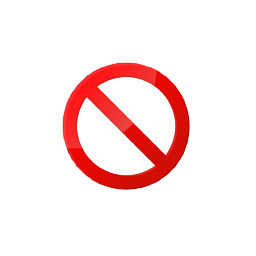
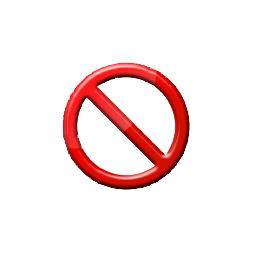
차선변경Block아이콘변경 및 깜박이 켜고 0.2초 기다림~

Changed region(s): [[0.2188, 0.2188, 0.75, 0.75]]

diff --git a/selfdrive/controls/lib/desire_helper.py b/selfdrive/controls/lib/desire_helper.py
@@ -23,13 +23,13 @@ DESIRES = {
     LaneChangeState.off: log.LateralPlan.Desire.none,
     LaneChangeState.preLaneChange: log.LateralPlan.Desire.none,
     LaneChangeState.laneChangeStarting: log.LateralPlan.Desire.laneChangeLeft,
-    LaneChangeState.laneChangeFinishing: log.LateralPlan.Desire.laneChangeLeft,
+    LaneChangeState.laneChangeFinishing: log.LateralPlan.Desire.none,
   },
   LaneChangeDirection.right: {
     LaneChangeState.off: log.LateralPlan.Desire.none,
     LaneChangeState.preLaneChange: log.LateralPlan.Desire.none,
     LaneChangeState.laneChangeStarting: log.LateralPlan.Desire.laneChangeRight,
-    LaneChangeState.laneChangeFinishing: log.LateralPlan.Desire.laneChangeRight,
+    LaneChangeState.laneChangeFinishing: log.LateralPlan.Desire.none,
   },
 }
 DESIRES_TURN = {
@@ -118,7 +118,7 @@ class DesireHelper:
       #self.lane_change_direction = LaneChangeDirection.none
       self.desireEvent = 0
     else:      
-      # 1. 감지 및 결정 단계: LaneChangeState.off: 깜박이와 속도검사. 
+      # 0. 감지 및 결정 단계: LaneChangeState.off: 깜박이와 속도검사. 
       #   - 정지상태: 깜박이를 켜고 있음: 출발할때 검사해야함.
       #   - 저속: 차선변경속도이하: 턴할지, 차로변경할지 결정해야함.
       #   - 중속: 80키로이하: 
@@ -150,15 +150,25 @@ class DesireHelper:
 
           # 중속
           elif v_ego_kph < 80.0:
-            if carstate.brakePressed:  # 감속하면서 깜박이.... 경우에따라 턴을 할까??(HW)
+            # 브레이킹하면서 깜박이.... 좌: 좌회전확률이 높음(차로변경차선변경 또는 좌회전). , 우: 우회전확률이 높으나(우측차로변경차선 또는 우회전), 
+            # 하지만... 차로변경차선이 있는지 없는지는 알수 없음... 
+            # 따라서, 브레이크밟으면서 깜박이는 턴속도가 될때까지, 차선변경 턴은 하지 않도록 하자~
+            if carstate.brakePressed:  
+              #로드에지가 아닌경우
               if not road_edge_detected:
                 if steering_pressed and checkAutoTurnEnabled:
-                  self.turnControlState = True
-                self.lane_change_state = LaneChangeState.preLaneChange
+                  self.turnControlState = True                
+                  self.lane_change_state = LaneChangeState.preLaneChange
+                elif carstate.rightBlinker:
+                  self.lane_change_state = LaneChangeState.preLaneChange
+                elif carstate.leftBlinker and steering_pressed:
+                  self.lane_change_state = LaneChangeState.preLaneChange
+              #우, 로드에지
               elif carstate.rightBlinker:
                 if checkAutoTurnEnabled and (checkAutoTurnSpeed or steering_pressed):
                   self.turnControlState = True
                 self.lane_change_state = LaneChangeState.preLaneChange
+              #좌, 로드에지
               else:
                 if checkAutoTurnEnabled and (checkAutoTurnSpeed or steering_pressed):
                   self.turnControlState = True
@@ -173,7 +183,7 @@ class DesireHelper:
               self.lane_change_ll_prob = 1.0
               self.waitTorqueApplied = False
 
-      # 2. 대기단계: LaneChangeState.preLaneChange: 
+      # 1. 대기단계: LaneChangeState.preLaneChange: 
       elif self.lane_change_state == LaneChangeState.preLaneChange:        
         self.desireEvent = 0
         self.lane_change_pulse_timer += DT_MDL
@@ -186,13 +196,13 @@ class DesireHelper:
             self.lane_change_state = LaneChangeState.off
           elif v_ego_kph < 2.0:
             self.lane_change_pulse_timer = 0.0
-          elif self.lane_change_pulse_timer > 0.1: # and not blindspot_detected:
+          elif self.lane_change_pulse_timer > 0.2: # and not blindspot_detected:
             self.lane_change_state = LaneChangeState.laneChangeStarting
         else:
           # 깜박이가 꺼지거나, 속도가 줄어들면... 차선변경 중지.
           if not one_blinker: #속도가 줄어도 차선변경이 가능하게 함(시험), or v_ego_kph < self.autoLaneChangeSpeed:  
             self.lane_change_state = LaneChangeState.off
-          elif self.lane_change_pulse_timer > 0.1:
+          elif self.lane_change_pulse_timer > 0.2:
             if blindspot_detected:
               self.desireEvent = EventName.laneChangeBlocked
               self.waitTorqueApplied = True
@@ -208,7 +218,7 @@ class DesireHelper:
             elif self.desireEvent == 0:
               self.desireEvent = EventName.preLaneChangeLeft if self.lane_change_direction == LaneChangeDirection.left else EventName.preLaneChangeRight
 
-      # LaneChangeState.laneChangeStarting
+      # 2. LaneChangeState.laneChangeStarting
       elif self.lane_change_state == LaneChangeState.laneChangeStarting:
         self.desireEvent = EventName.laneChange
         # fade out over .5s
@@ -236,7 +246,7 @@ class DesireHelper:
             if lane_change_prob < 0.02 and self.lane_change_ll_prob < 0.01:
               self.lane_change_state = LaneChangeState.laneChangeFinishing
 
-      # LaneChangeState.laneChangeFinishing
+      # 3.LaneChangeState.laneChangeFinishing
       elif self.lane_change_state == LaneChangeState.laneChangeFinishing:
         self.desireEvent = EventName.laneChange
         # fade in laneline over 1s

diff --git a/selfdrive/ui/qt/onroad.cc b/selfdrive/ui/qt/onroad.cc
@@ -369,6 +369,7 @@ AnnotatedCameraWidget::AnnotatedCameraWidget(VisionStreamType type, QWidget* par
   ic_lane_change_l = QPixmap("../assets/images/lane_change_l.png");
   ic_lane_change_r = QPixmap("../assets/images/lane_change_r.png");
   ic_lane_change_inhibit = QPixmap("../assets/images/lane_change_inhibit.png");
+  ic_lane_change_inhibit = QPixmap("../assets/images/lane_change_steer.png");
   ic_turn_l = QPixmap("../assets/images/turn_l.png");
   ic_turn_r = QPixmap("../assets/images/turn_r.png");
   ic_blinker_l = QPixmap("../assets/images/blink_l.png");
@@ -1777,21 +1778,21 @@ void AnnotatedCameraWidget::drawLeadApilot(QPainter& painter, const cereal::Mode
             else if (desireStateLaneChangeLeft > 0.5) painter.drawPixmap(x - icon_size / 2, y - icon_size / 2, icon_size, icon_size, ic_lane_change_l);
             else if (desireStateLaneChangeRight > 0.5) painter.drawPixmap(x - icon_size / 2, y - icon_size / 2, icon_size, icon_size, ic_lane_change_r);
             if (desireEvent == 57) {
+                painter.drawPixmap(x - icon_size / 2, y - icon_size / 2, icon_size, icon_size, ic_lane_change_steer);
                 painter.drawPixmap(x - icon_size / 2, y - icon_size / 2, icon_size, icon_size, ic_lane_change_l);
-                painter.drawPixmap(x - icon_size / 2, y - icon_size / 2, icon_size, icon_size, ic_lane_change_inhibit);
             }
             else if (desireEvent == 58) {
+                painter.drawPixmap(x - icon_size / 2, y - icon_size / 2, icon_size, icon_size, ic_lane_change_steer);
                 painter.drawPixmap(x - icon_size / 2, y - icon_size / 2, icon_size, icon_size, ic_lane_change_r);
-                painter.drawPixmap(x - icon_size / 2, y - icon_size / 2, icon_size, icon_size, ic_lane_change_inhibit);
             }
             else if (desireEvent == 71) {
                 if (laneChangeDirection == cereal::LateralPlan::LaneChangeDirection::LEFT) {
-                    painter.drawPixmap(x - icon_size / 2, y - icon_size / 2, icon_size, icon_size, ic_lane_change_l);
                     painter.drawPixmap(x - icon_size / 2, y - icon_size / 2, icon_size, icon_size, ic_lane_change_inhibit);
+                    painter.drawPixmap(x - icon_size / 2, y - icon_size / 2, icon_size, icon_size, ic_lane_change_l);
                 }
                 else if (laneChangeDirection == cereal::LateralPlan::LaneChangeDirection::RIGHT) {
-                    painter.drawPixmap(x - icon_size / 2, y - icon_size / 2, icon_size, icon_size, ic_lane_change_r);
                     painter.drawPixmap(x - icon_size / 2, y - icon_size / 2, icon_size, icon_size, ic_lane_change_inhibit);
+                    painter.drawPixmap(x - icon_size / 2, y - icon_size / 2, icon_size, icon_size, ic_lane_change_r);
                 }
             }
 

diff --git a/selfdrive/controls/lib/lateral_planner.py b/selfdrive/controls/lib/lateral_planner.py
@@ -39,7 +39,6 @@ class LateralPlanner:
     self.lateralMotionCost = float(int(Params().get("LateralMotionCost", encoding="utf8")))*0.01
     self.lateralAccelCost = float(int(Params().get("LateralAccelCost", encoding="utf8")))*0.01
     self.lateralJerkCost = float(int(Params().get("LateralJerkCost", encoding="utf8")))*0.01
-    self.lateralTestMode = int(Params().get("LateralTestMode", encoding="utf8"))
     self.useLaneLineSpeed = float(int(Params().get("UseLaneLineSpeed", encoding="utf8")))
 
     self.useLaneLineMode = False
@@ -79,7 +78,6 @@ class LateralPlanner:
       self.lateralMotionCost = float(int(Params().get("LateralMotionCost", encoding="utf8")))*0.01
       self.lateralAccelCost = float(int(Params().get("LateralAccelCost", encoding="utf8")))*0.01
       self.lateralJerkCost = float(int(Params().get("LateralJerkCost", encoding="utf8")))*0.01
-      self.lateralTestMode = int(Params().get("LateralTestMode", encoding="utf8"))
 
     # clip speed , lateral planning is not possible at 0 speed
     measured_curvature = sm['controlsState'].curvature
@@ -152,15 +150,9 @@ class LateralPlanner:
                              self.lateralAccelCost, self.lateralJerkCost,
                              self.steeringRateCost)
 
-    if self.lateralTestMode == 1:
-      d_path_xyz = self.path_xyz
-      y_pts = np.interp(self.v_ego * self.t_idxs[:LAT_MPC_N + 1], np.linalg.norm(d_path_xyz, axis=1), d_path_xyz[:, 1])
-      heading_pts = np.interp(self.v_ego * self.t_idxs[:LAT_MPC_N + 1], np.linalg.norm(self.path_xyz, axis=1), self.plan_yaw)
-      yaw_rate_pts = np.interp(self.v_ego * self.t_idxs[:LAT_MPC_N + 1], np.linalg.norm(self.path_xyz, axis=1), self.plan_yaw_rate)
-    else:
-      y_pts = self.path_xyz[:LAT_MPC_N+1, 1]
-      heading_pts = self.plan_yaw[:LAT_MPC_N+1]
-      yaw_rate_pts = self.plan_yaw_rate[:LAT_MPC_N+1]
+    y_pts = self.path_xyz[:LAT_MPC_N+1, 1]
+    heading_pts = self.plan_yaw[:LAT_MPC_N+1]
+    yaw_rate_pts = self.plan_yaw_rate[:LAT_MPC_N+1]
     self.y_pts = y_pts
 
     assert len(y_pts) == LAT_MPC_N + 1

diff --git a/selfdrive/controls/lib/events.py b/selfdrive/controls/lib/events.py
@@ -514,24 +514,27 @@ EVENTS: Dict[int, Dict[str, Union[Alert, AlertCallbackType]]] = {
     ET.WARNING: Alert(
       "Steer Left to Start Lane Change Once Safe",
       "",
-      AlertStatus.normal, AlertSize.small,
-      Priority.LOW, VisualAlert.none, AudibleAlert.none, .1, alert_rate=0.75),
+      AlertStatus.normal, AlertSize.none,
+      #Priority.LOW, VisualAlert.none, AudibleAlert.none, .1, alert_rate=0.75),
+      Priority.LOW, VisualAlert.none, AudibleAlert.none, .1),
   },
 
   EventName.preLaneChangeRight: {
     ET.WARNING: Alert(
       "Steer Right to Start Lane Change Once Safe",
       "",
-      AlertStatus.normal, AlertSize.small,
-      Priority.LOW, VisualAlert.none, AudibleAlert.none, .1, alert_rate=0.75),
+      AlertStatus.normal, AlertSize.none,
+      #Priority.LOW, VisualAlert.none, AudibleAlert.none, .1, alert_rate=0.75),
+      Priority.LOW, VisualAlert.none, AudibleAlert.none, .1),
   },
 
   EventName.laneChangeBlocked: {
     ET.WARNING: Alert(
       "Car Detected in Blindspot or RoadEdge",
       "",
-      AlertStatus.userPrompt, AlertSize.small,
-      Priority.LOW, VisualAlert.none, AudibleAlert.prompt, .1),
+      AlertStatus.userPrompt, AlertSize.none,
+      #Priority.LOW, VisualAlert.none, AudibleAlert.prompt, .1),
+      Priority.LOW, VisualAlert.none, AudibleAlert.none, .1),
   },
 
   EventName.laneChange: {

diff --git a/selfdrive/ui/qt/offroad/settings.cc b/selfdrive/ui/qt/offroad/settings.cc
@@ -667,7 +667,6 @@ TuningPanel::TuningPanel(QWidget* parent) : QWidget(parent) {
     toggleLayout->addWidget(new CValueControl("LateralAccelCost", "횡컨: LateralAccelCost(0)", "", "../assets/offroad/icon_road.png", 0, 300, 1));
     toggleLayout->addWidget(new CValueControl("LateralMotionCost", "횡컨: LateralMotionCost(11)", "", "../assets/offroad/icon_road.png", 0, 50, 1));
     toggleLayout->addWidget(new CValueControl("LateralJerkCost", "횡컨: LateralJerkCost(4)", "", "../assets/offroad/icon_road.png", 0, 50, 1));
-    toggleLayout->addWidget(new CValueControl("LateralTestMode", "횡컨: LateralTestMode(0)", "", "../assets/offroad/icon_road.png", 0, 1, 1));
     toggleLayout->addWidget(new CValueControl("SteerActuatorDelay", "횡컨:SteerActuatorDelay(30)", "표준", "../assets/offroad/icon_road.png", 0, 100, 1));
     toggleLayout->addWidget(new CValueControl("SteerActuatorDelayMid", "횡컨:SteerActuatorDelayMid(30)", "50km/h", "../assets/offroad/icon_road.png", 0, 200, 1));
     toggleLayout->addWidget(new CValueControl("SteerActuatorDelayLow", "횡컨:SteerActuatorDelayLow(30)", "0km/h", "../assets/offroad/icon_road.png", 0, 200, 1));

diff --git a/selfdrive/manager/manager.py b/selfdrive/manager/manager.py
@@ -134,7 +134,6 @@ def manager_init() -> None:
     ("LateralMotionCost", "11"),       
     ("LateralAccelCost", "0"),       
     ("LateralJerkCost", "5"),       
-    ("LateralTestMode", "0"),       
     ("SteerActuatorDelay", "30"),       
     ("SteerActuatorDelayLow", "30"),       
     ("SteerActuatorDelayMid", "30"),       

diff --git a/common/params.cc b/common/params.cc
@@ -302,7 +302,6 @@ std::unordered_map<std::string, uint32_t> keys = {
     { "LateralMotionCost", PERSISTENT },
     { "LateralAccelCost", PERSISTENT },
     { "LateralJerkCost", PERSISTENT },
-    { "LateralTestMode", PERSISTENT },
     { "SteerDeltaUp", PERSISTENT },
     { "SteerDeltaDown", PERSISTENT },
 };

diff --git a/selfdrive/ui/qt/onroad.h b/selfdrive/ui/qt/onroad.h
@@ -119,6 +119,7 @@ protected:
   QPixmap ic_lane_change_l;
   QPixmap ic_lane_change_r;
   QPixmap ic_lane_change_inhibit;
+  QPixmap ic_lane_change_steer;
   QPixmap ic_turn_l;
   QPixmap ic_turn_r;
   QPixmap ic_blinker_l;
